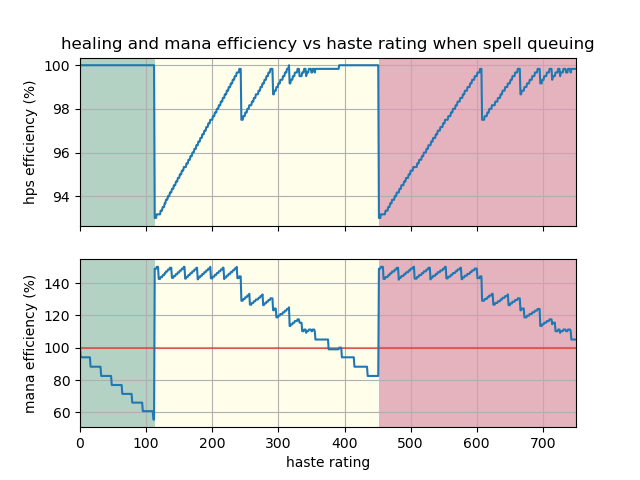
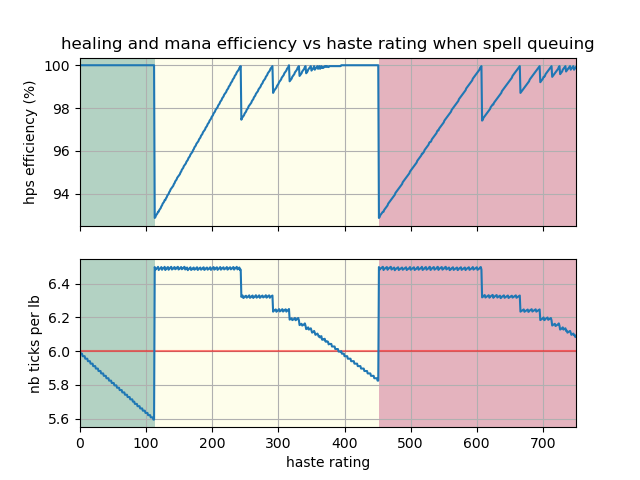
add script + change image

diff --git a/seventhtickproblem.py b/seventhtickproblem.py
@@ -1,0 +1,96 @@
+from argparse import ArgumentParser
+
+import numpy as np
+from joblib import Parallel, delayed
+from matplotlib import pyplot as plt
+
+from character import DruidCharacter
+from rotation import Timeline
+from spell import LIFEBLOOM
+from statistics import Stats
+from statsmodifiers import StatsModifierArray
+from talents import DruidTalents
+
+DEFAULT_TALENTS = {
+  "name": "deep_resto",
+  "points": {
+    "naturalist": 0,
+    "gift_of_nature": 5,
+    "tranquil_spirit": 5,
+    "improved_rejuvenation": 3,
+    "empowered_rejuvenation": 5,
+    "living_spirit": 3,
+    "empowered_touch": 0,
+    "improved_regrowth": 5,
+    "intensity": 3,
+    "tree_of_life": 1
+  }
+}
+
+
+def simulate_haste(rating, total_duration):
+    talents = DruidTalents(DEFAULT_TALENTS["points"], DEFAULT_TALENTS["name"])
+    no_buff = StatsModifierArray([])
+    char = DruidCharacter({Stats.SPELL_HASTE_RATING: rating}, talents, no_buff, no_buff)
+    lb_timeline = Timeline("lifebloom")
+    lifebloom = LIFEBLOOM[0]
+    gcd = char.get_stat(Stats.GCD)
+    gcd_per_lb = int(lifebloom.duration(char) / gcd)
+    t = 0
+    while t < total_duration:
+        # cast a lifebloom on one target
+        lb_timeline.add_spell_event(t, lifebloom)
+        # full spellqueuing avoiding bloom
+        t += gcd * gcd_per_lb
+
+    max_ticks_possible = int(total_duration)
+    number_lifeblooms = len(lb_timeline)
+
+    stats = lb_timeline.stats(char, 0, total_duration)
+    nb_ticks = len(stats["heals"])
+    return rating, gcd_per_lb - 4, 100 * nb_ticks / max_ticks_possible, nb_ticks / number_lifeblooms
+
+
+def main(argv):
+    parser = ArgumentParser()
+    parser.add_argument("-s", "--start_rating", dest="start_rating", type=int, default=0)
+    parser.add_argument("-e", "--end_rating", dest="end_rating", type=int, default=600)
+    parser.add_argument("-d", "--sim_duration", dest="sim_duration", type=int, default=600)
+    parser.add_argument("-j", "--n_jobs", dest="n_jobs", default=1, type=int)
+    args, _ = parser.parse_known_args(argv)
+
+    if args.start_rating >= args.end_rating + 1:
+        print("empty range of haste rating")
+
+    results = Parallel(n_jobs=args.n_jobs)(delayed(simulate_haste)(haste_rating, args.sim_duration)
+                                           for haste_rating in range(args.start_rating, args.end_rating + 1))
+
+    ratings, gcds_per_lb, heal_eff, mana_eff = zip(*results)
+
+    fig, (ax1, ax2) = plt.subplots(2, 1, sharex="all")
+    ax1.plot(ratings, heal_eff)
+    ax2.plot(ratings, mana_eff)
+    ax1.set_title("healing and mana efficiency vs haste rating when spell queuing")
+    ax2.set_xlabel('haste rating')
+    ax1.set_ylabel('hps efficiency (%)')
+    ax2.set_ylabel('nb ticks per lb')
+    ax2.hlines([6], np.min(ratings), np.max(ratings), colors=['r'], alpha=0.5)
+
+    for ax in [ax1, ax2]:
+        ax.set_xlim(np.min(ratings), np.max(ratings))
+        ax.pcolorfast(ax.get_xlim(), ax.get_ylim(), 2 - np.array(gcds_per_lb)[np.newaxis], cmap='RdYlGn', alpha=0.3)
+        ax.grid()
+
+    prev, prev_haste = heal_eff[0], ratings[0]
+    for i, h in enumerate(heal_eff[1:]):
+        if h < prev:
+            print(prev_haste, prev)
+        prev_haste = ratings[i+1]
+        prev = h
+
+    plt.show()
+
+
+if __name__ == "__main__":
+    import sys
+    main(sys.argv[1:])
